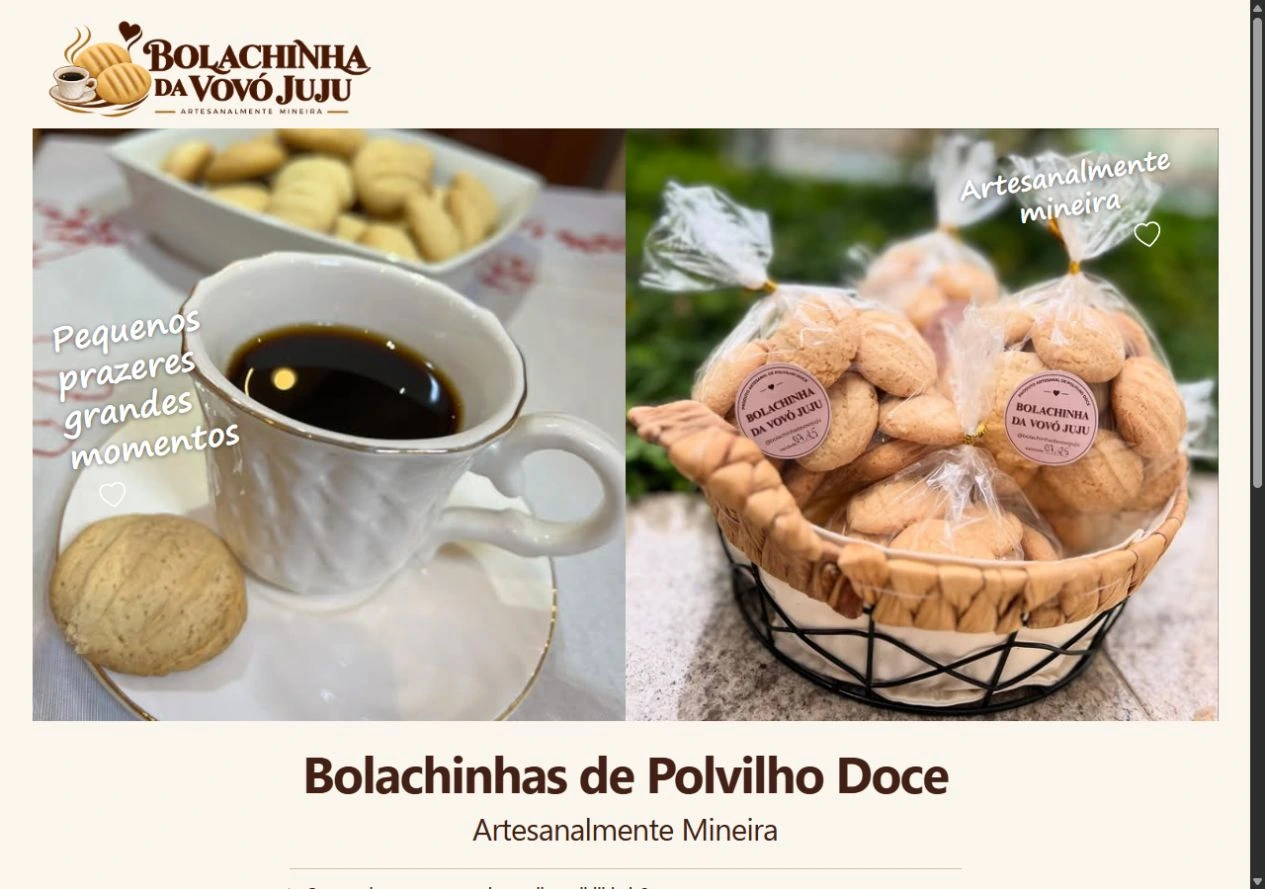
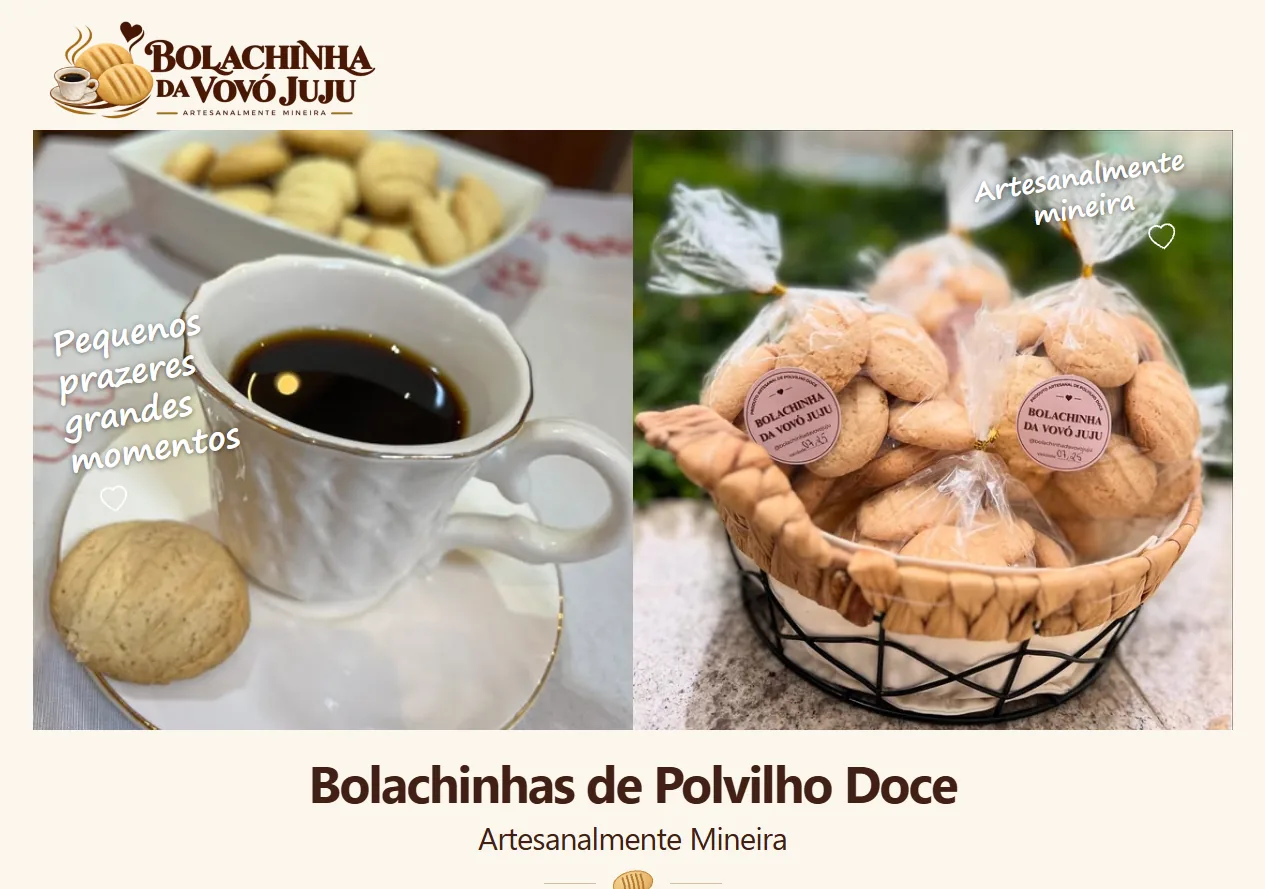
feat: scroll through the whole client site inside the device frames
The browser and phone frames show the first screen of each client site and,
on hover or keyboard focus (or on touch screens when the frame comes into
view after the first scroll), load the whole-page capture and scroll it to
the end. The capture never downloads with the page; reduced motion and
Save-Data keep everything still. New full-page captures for the five sites.

Claude-Session: https://claude.ai/code/session_019NsJnPmERVuEdkdS3RKa8C

diff --git a/src/site.css b/src/site.css
@@ -202,9 +202,16 @@ html:not(.js) .site-head{background:rgba(0,12,25,.9);border-bottom-color:var(--l
 .browser__bar{display:flex;align-items:center;gap:8px;padding:11px 16px;border-bottom:1px solid var(--line)}
 .browser__bar i{width:10px;height:10px;border-radius:50%;background:var(--line-2)}
 .browser__bar span{margin-left:10px;font-family:var(--mono);font-size:12px;color:var(--muted);white-space:nowrap;overflow:hidden;text-overflow:ellipsis}
-.browser img{width:100%;aspect-ratio:1265/889;object-fit:cover;object-position:top}
+/* Scroll preview: the poster is the first screen; `.shot__full` (the whole page, added by src/scroll-shots.mjs on
+   hover, focus or, on touch screens, when in view) fades in over it and scrolls to the end. 100cqh = frame height. */
+.shot{position:relative;overflow:hidden;container-type:size;background:#06182A}
+.browser .shot{aspect-ratio:1265/889}
+.phone .shot{aspect-ratio:375/812}
+.shot__poster{display:block;width:100%;height:100%;object-fit:cover;object-position:top}
+.shot__full{position:absolute;left:0;top:0;width:100%;height:auto;opacity:0;pointer-events:none;transition:opacity .3s var(--ease),transform .9s cubic-bezier(.4,0,.2,1)}
+.shot.is-ready .shot__full{opacity:1}
+.shot.is-scrolling .shot__full{transform:translateY(calc(-100% + 100cqh));transition:opacity .3s var(--ease),transform var(--shot-dur,6s) cubic-bezier(.45,.05,.4,1) .2s;will-change:transform}
 .phone{position:absolute;right:-8px;bottom:0;width:30%;min-width:120px;border-radius:26px;background:#06182A;border:6px solid #122436;overflow:hidden;box-shadow:0 30px 60px rgba(0,0,0,.55)}
-.phone img{width:100%;aspect-ratio:375/812;object-fit:cover;object-position:top}
 .device-pair{position:relative;padding-bottom:48px}
 
 /* ---------- Proof strip ---------- */
@@ -252,13 +259,11 @@ html:not(.js) .site-head{background:rgba(0,12,25,.9);border-bottom-color:var(--l
 }
 .case__media{display:block;color:inherit;border-radius:var(--radius)}
 .case__shot{transition:transform .25s var(--ease),box-shadow .25s var(--ease)}
-.case__shot img{transition:transform .6s var(--ease)}
 .case__meta{font-family:var(--label);font-size:10.5px;letter-spacing:.14em;text-transform:uppercase;color:var(--cyan)}
 .case__title a{color:inherit;text-decoration:none}
 .case h3,.case__title{transition:color .2s}
 @media (hover:hover) and (pointer:fine){
   :is(.case,.case-row):hover .case__shot{transform:translateY(-6px);box-shadow:0 12px 30px rgba(0,0,0,.45)}
-  :is(.case,.case-row):hover .case__shot img{transform:scale(1.04)}
   :is(.case,.case-row):hover .case__title{color:var(--cyan)}
 }
 .case-row{margin-bottom:clamp(56px,7vw,96px)}
@@ -487,6 +492,7 @@ body:has(.analytics-consent) .wa-float{display:none}
   .hero__media:hover .browser,.hero__media:hover .phone{transform:none}
   .wa-float:hover,.wa-float:active{transform:none}
   .pulse,.circuit-visual__signal{display:none}
+  .shot__full{display:none}
   ::view-transition-old(root),::view-transition-new(root){animation:none}
 }
 @media print{.site-head,.sticky-cta,.wa-float,.mobile-menu,.hero__bg,.hero__glow,.analytics-consent{display:none}body{background:#fff;color:#000}.js [data-reveal]:not(.is-in){opacity:1}}

diff --git a/src/ui.jsx b/src/ui.jsx
@@ -91,25 +91,37 @@ export function Circuits() {
 }
 
 /* ---------- Frames ---------- */
-export function Browser({ src, alt, host, eager = false, className = "browser" }) {
+// The frame shows the first screen of the site (`src`). `full` is the whole page from the same capture:
+// src/scroll-shots.mjs downloads it only on intent (hover, keyboard focus or, on touch screens, when the
+// frame comes into view) and scrolls it inside the frame. The poster stays the image that loads with the page.
+export function Shot({ src, full, alt, width, height, eager = false }) {
   return (
-    <div className={className}>
-      <div className="browser__bar" aria-hidden="true"><i /><i /><i /><span>{host}</span></div>
-      <img src={src} alt={alt} width="1265" height="889" loading={eager ? undefined : "lazy"} fetchPriority={eager ? "high" : undefined} decoding="async" />
+    <div className="shot" data-full={full || undefined}>
+      <img className="shot__poster" src={src} alt={alt} width={width} height={height} loading={eager ? undefined : "lazy"} fetchPriority={eager ? "high" : undefined} decoding="async" />
     </div>
   );
 }
 
-export function Phone({ src, alt, className = "phone" }) {
-  return <div className={className}><img src={src} alt={alt} width="375" height="812" loading="lazy" decoding="async" /></div>;
+export function Browser({ src, full, alt, host, eager = false, className = "browser" }) {
+  return (
+    <div className={className}>
+      <div className="browser__bar" aria-hidden="true"><i /><i /><i /><span>{host}</span></div>
+      <Shot src={src} full={full} alt={alt} width="1265" height="889" eager={eager} />
+    </div>
+  );
+}
+
+export function Phone({ src, full, alt, className = "phone" }) {
+  return <div className={className}><Shot src={src} full={full} alt={alt} width="375" height="812" /></div>;
 }
 
 // Hero media slides in once on load (`load`); the headline and call to action never wait.
+// Browser and phone scroll together: the pair is one hover zone (`data-shot-zone`).
 export function DevicePair({ project, eager = false, load = false, className = "device-pair" }) {
   return (
-    <div className={className || undefined}>
-      <div className={load ? "load-shot" : undefined}><Browser src={project.desktop} alt={project.altDesktop} host={project.domain} eager={eager} /></div>
-      <Phone src={project.mobile} alt={project.altMobile} className={load ? "phone load-phone" : "phone"} />
+    <div className={className || undefined} data-shot-zone="">
+      <div className={load ? "load-shot" : undefined}><Browser src={project.desktop} full={project.desktopFull} alt={project.altDesktop} host={project.domain} eager={eager} /></div>
+      <Phone src={project.mobile} full={project.mobileFull} alt={project.altMobile} className={load ? "phone load-phone" : "phone"} />
     </div>
   );
 }

diff --git a/src/pages/PortfolioPages.jsx b/src/pages/PortfolioPages.jsx
@@ -111,9 +111,9 @@ export function PortfolioIndex({ locale }) {
         <div className="wrap">
           <SectionHead eyebrow={page.sites.eyebrow} title={page.sites.title} id="projects-title" />
           {cases.map((item, index) => (
-            <article className="split case-row" data-reveal="" key={item.key}>
+            <article className="split case-row" data-reveal="" data-shot-zone="" key={item.key}>
               <a className="case__media" href={item.path} tabIndex={-1} aria-hidden="true">
-                <Browser src={item.desktop} alt="" host={item.domain} className="browser case__shot" />
+                <Browser src={item.desktop} full={item.desktopFull} alt="" host={item.domain} className="browser case__shot" />
               </a>
               <div className="stack">
                 <p className="case__meta">{String(index + 1).padStart(2, "0")} · {item.category}</p>
@@ -198,9 +198,9 @@ export function CasePage({ locale, page }) {
             <div className="card"><ul>{project.delivered.map(item => <li key={item}>{item}</li>)}</ul></div>
             <LinkArrow href={pages.portfolio.path} icon="back" className="link link--arrow link--teal">{copy.all}</LinkArrow>
           </div>
-          <a className="card card--link" href={other.path} data-reveal="">
+          <a className="card card--link" href={other.path} data-reveal="" data-shot-zone="">
             <span className="card__k">{copy.next}</span>
-            <Browser src={other.desktop} alt="" host={other.domain} />
+            <Browser src={other.desktop} full={other.desktopFull} alt="" host={other.domain} />
             <h3 className="h3">{other.name}</h3>
             <span className="link link--arrow link--teal">{t.seeCase}</span>
           </a>

diff --git a/src/pages/ServicePages.jsx b/src/pages/ServicePages.jsx
@@ -79,9 +79,9 @@ export function SitesPage({ locale }) {
               <LinkArrow href={project.url} icon="out" external>{t.visitSite}</LinkArrow>
             </div>
           </div>
-          <div className="device-pair" data-reveal="zoom">
-            <Browser src={project.desktop} alt={project.altDesktop} host={project.domain} />
-            <Phone src={project.mobile} alt={project.altMobile} />
+          <div className="device-pair" data-reveal="zoom" data-shot-zone="">
+            <Browser src={project.desktop} full={project.desktopFull} alt={project.altDesktop} host={project.domain} />
+            <Phone src={project.mobile} full={project.mobileFull} alt={project.altMobile} />
           </div>
         </div>
       </section>
@@ -127,9 +127,9 @@ export function LandingPage({ locale }) {
 
       <section className="section light" id="projects" aria-labelledby="projects-title">
         <div className="wrap split">
-          <div className="device-pair" data-reveal="zoom">
-            <Browser src={project.desktop} alt={project.altDesktop} host={project.domain} />
-            <Phone src={project.mobile} alt={project.altMobile} />
+          <div className="device-pair" data-reveal="zoom" data-shot-zone="">
+            <Browser src={project.desktop} full={project.desktopFull} alt={project.altDesktop} host={project.domain} />
+            <Phone src={project.mobile} full={project.mobileFull} alt={project.altMobile} />
           </div>
           <div className="stack" data-reveal="">
             <p className="eyebrow">{service.caseStudy.eyebrow}</p>

diff --git a/src/App.jsx b/src/App.jsx
@@ -12,6 +12,7 @@ import { pageStructuredData, serializeStructuredData } from "./structured-data.m
 import { AnalyticsConsent } from "./AnalyticsConsent.jsx";
 import { createReveal } from "./reveal-kit.mjs";
 import { createCircuitMotion } from "./circuit-motion.mjs";
+import { createScrollShots } from "./scroll-shots.mjs";
 import { HomePage } from "./pages/HomePage.jsx";
 import { AiPage, CareerPage, LandingPage, SitesPage } from "./pages/ServicePages.jsx";
 import { CasePage, PortfolioIndex } from "./pages/PortfolioPages.jsx";
@@ -76,7 +77,8 @@ export function App({ pathname = window.location.pathname }) {
     const root = document.querySelector(".site-shell");
     const reveal = createReveal(root);
     const circuit = createCircuitMotion(root);
-    return () => { reveal.destroy(); circuit.destroy(); };
+    const shots = createScrollShots(root);
+    return () => { reveal.destroy(); circuit.destroy(); shots.destroy(); };
   }, [locale, page]);
 
   useEffect(() => {

diff --git a/src/pages/HomePage.jsx b/src/pages/HomePage.jsx
@@ -7,9 +7,9 @@ import { Browser, Circuits, CtaFinal, DevicePair, FaqSection, LinkArrow, Receipt
 export function CaseCard({ project, locale, heading: Heading = "h3", featured = false }) {
   const t = UI[locale];
   return (
-    <article className={featured ? "case case--featured" : "case"} data-reveal="">
+    <article className={featured ? "case case--featured" : "case"} data-reveal="" data-shot-zone="">
       <a className="case__media" href={project.path} tabIndex={-1} aria-hidden="true">
-        <Browser src={project.desktop} alt="" host={project.domain} className="browser case__shot" />
+        <Browser src={project.desktop} full={project.desktopFull} alt="" host={project.domain} className="browser case__shot" />
       </a>
       <div className="stack stack--sm">
         <p className="case__meta">{project.category}</p>

diff --git a/AGENTS.md b/AGENTS.md
@@ -223,3 +223,9 @@ Build app UI in `src/`. Preserve the verified localized-shell and strict-route b
 - A round WhatsApp button in the official green (#25D366, official glyph from Simple Icons, CC0) is fixed at the bottom right of every commercial page, with the page's message; it replaces the mobile sticky bar. The career page keeps its Kiwify purchase bar instead, and legal pages show neither. The button hides while the consent banner is open.
 - `whatsapp_click` now also sends `contact_intent` (`landing_697` or `orcamento`) and the placement `floating`; register `contact_intent` as a GA4 custom dimension. Consent, allowlist and other events are unchanged.
 - Landing page "Live example": Respeitável Feijuca (Juju stays in the portfolio). Header symbol shown at 50 px (44 px when the header shrinks), from the original file's variants; the symbol is never redrawn. On phones the "No ar agora" domains scroll sideways in one line.
+
+## Scroll preview in the device frames, requested on 2026-10-28
+
+- Carlos asked for the client-site frames to work like a window onto the site and scroll through the whole page. Every browser and phone frame (home hero and cards, landing page and sites pages, portfolio rows, case pages and "next project") now shows the first screen (`desktop`/`mobile`) and names the whole page in `data-full` (`desktopFull`/`mobileFull`).
+- `src/scroll-shots.mjs` downloads the whole-page capture only on intent and adds the classes; the movement is CSS (`.shot.is-scrolling .shot__full`, `translateY(calc(-100% + 100cqh))`), with a duration that grows with the page length (1.1 s per screen, 2.4 to 10 s). Mouse or pen: while the pointer is over the zone (`data-shot-zone`: the card or the device pair, so browser and phone scroll together); leaving returns to the top. Keyboard focus inside the zone does the same. Touch screens: when the zone is at least 60% in view, only after the first scroll; it holds at the end for 1.4 s, returns to the top and plays again on the next entry. Reduced motion or Save-Data: nothing downloads or moves. The case-card image zoom on hover was replaced by this effect (the card still lifts).
+- Captures, 2026-10-28: desktop 1265 px and mobile 375 px wide; the poster is the first screen of the same capture, so the swap is seamless. Feijuca, LaLeLis and Afeto from their repositories (the Feijuca hero scene kept one screen tall in the still image; clips without a poster use a frame from their own video); Infinity and Juju from the public sites opened in a browser at those widths (no repository available), with the privacy banner hidden and the sticky header only on the first screen. Floating buttons of the client sites appear only on the first screen.
